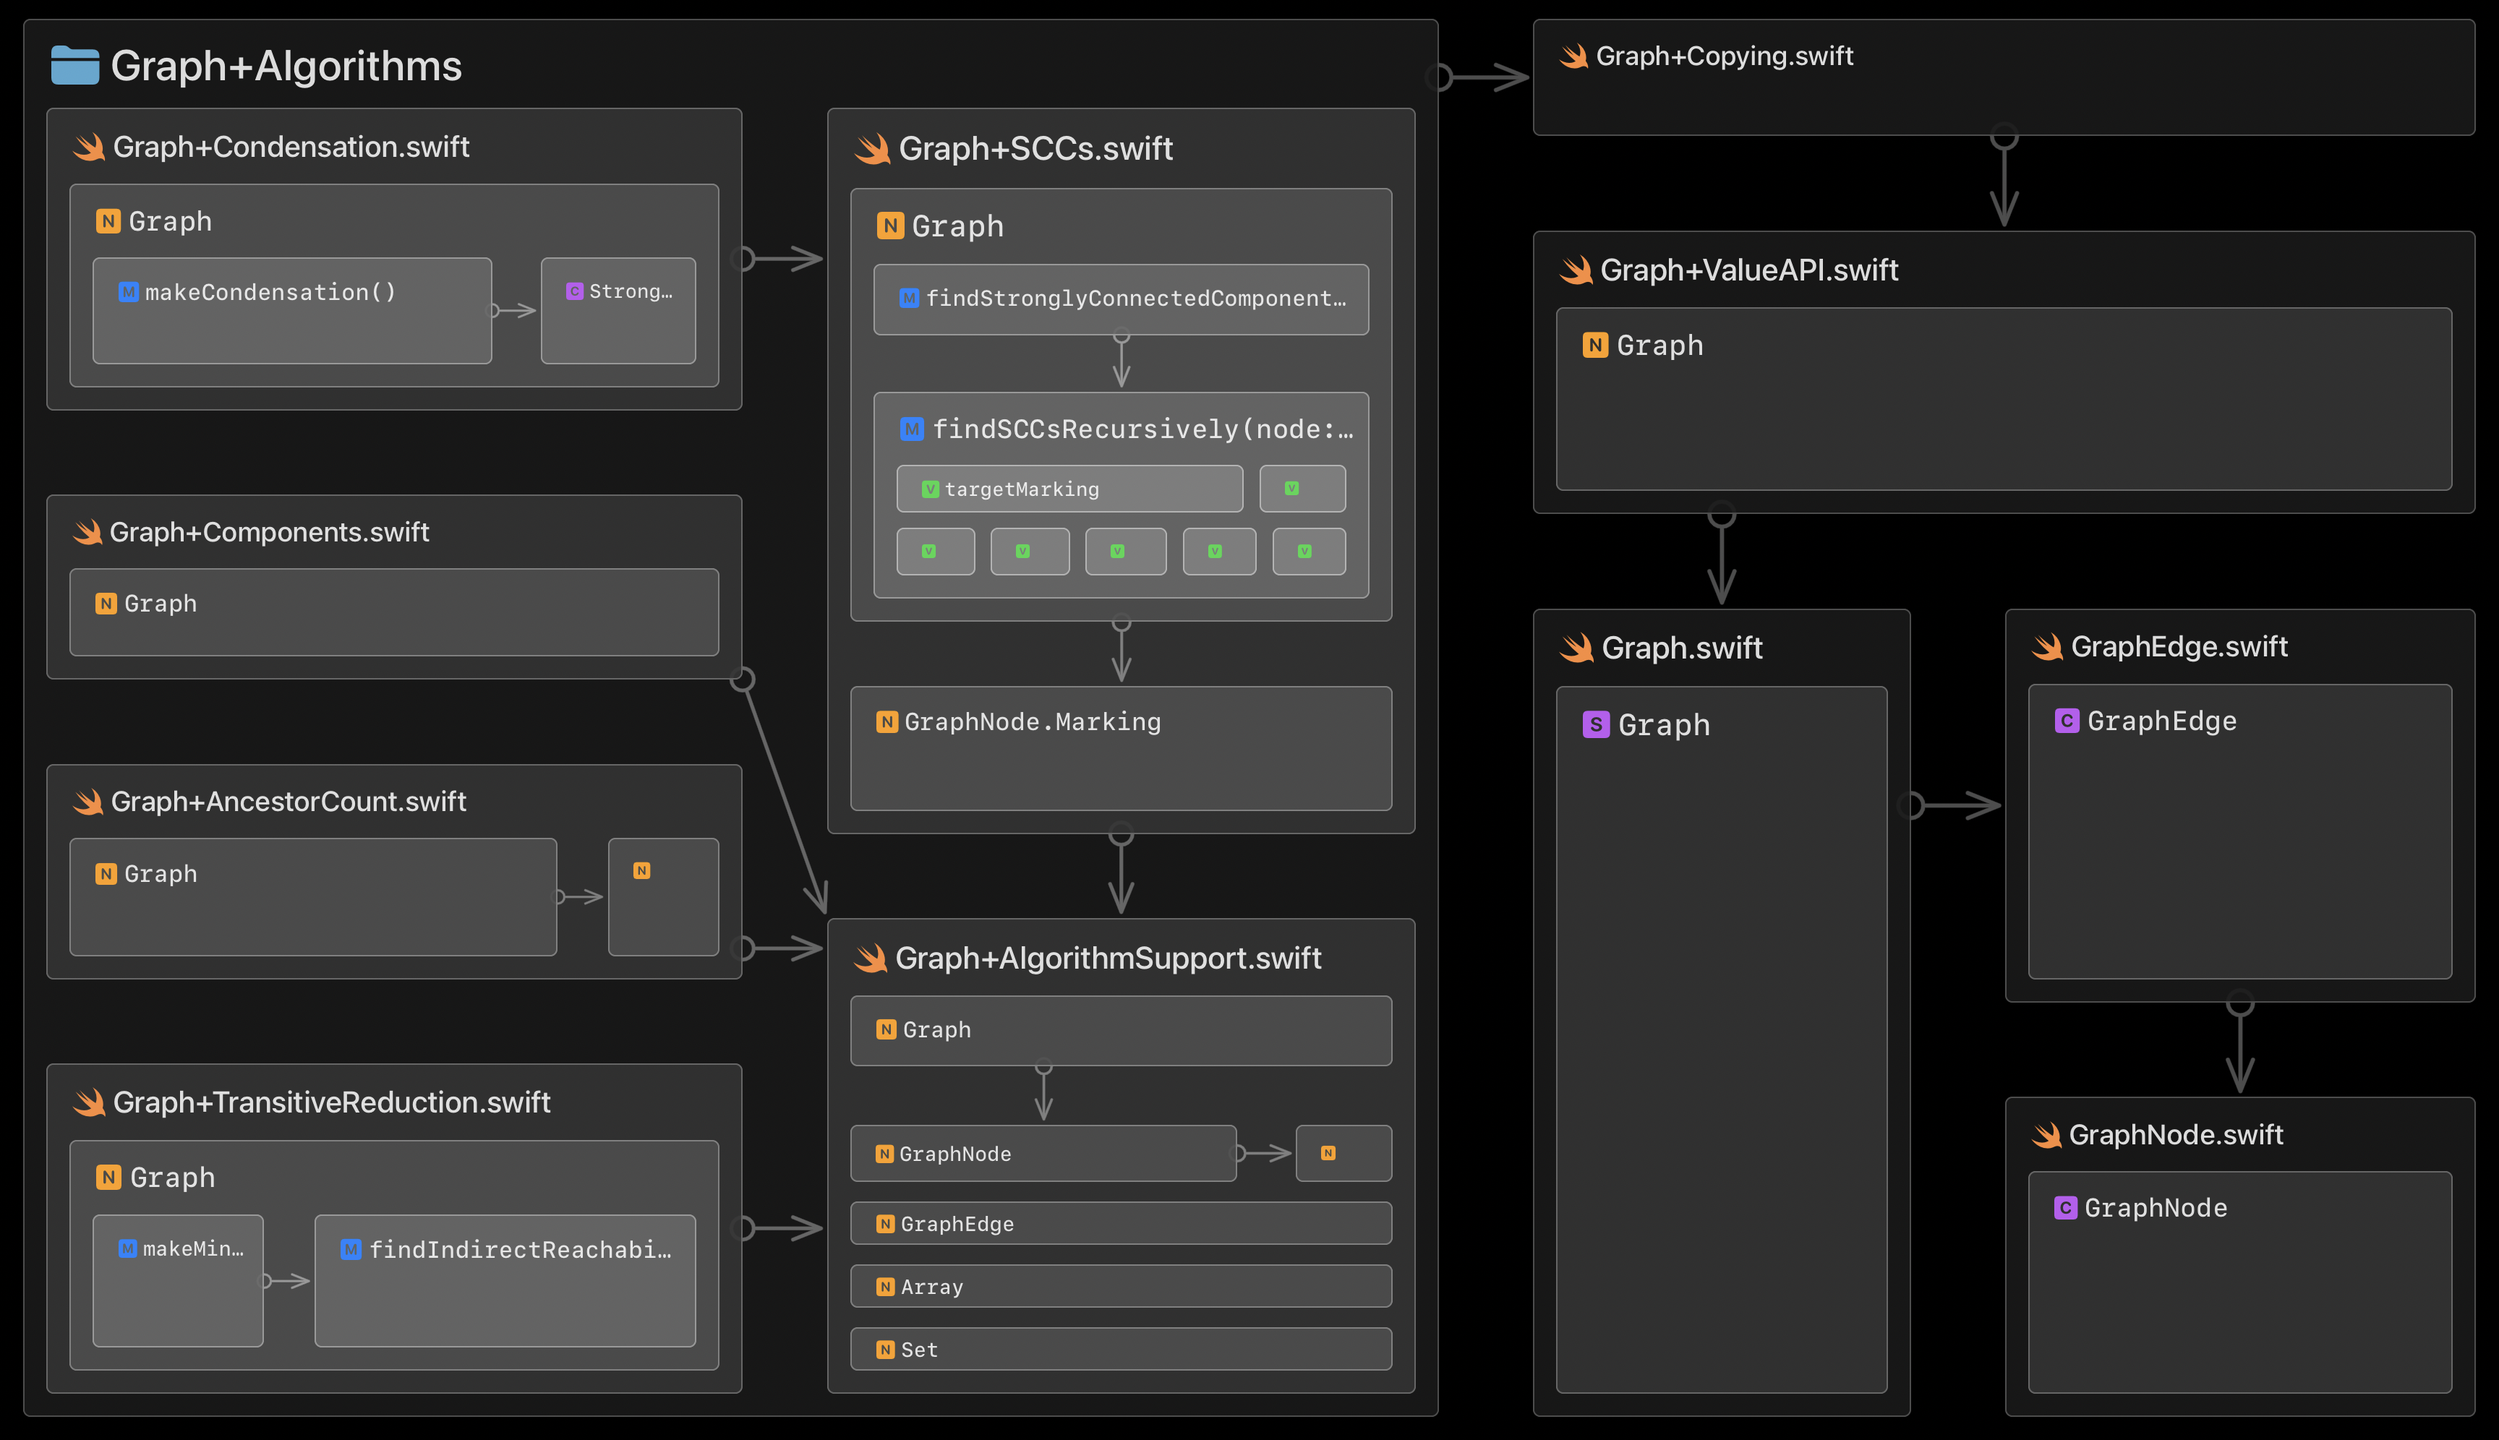
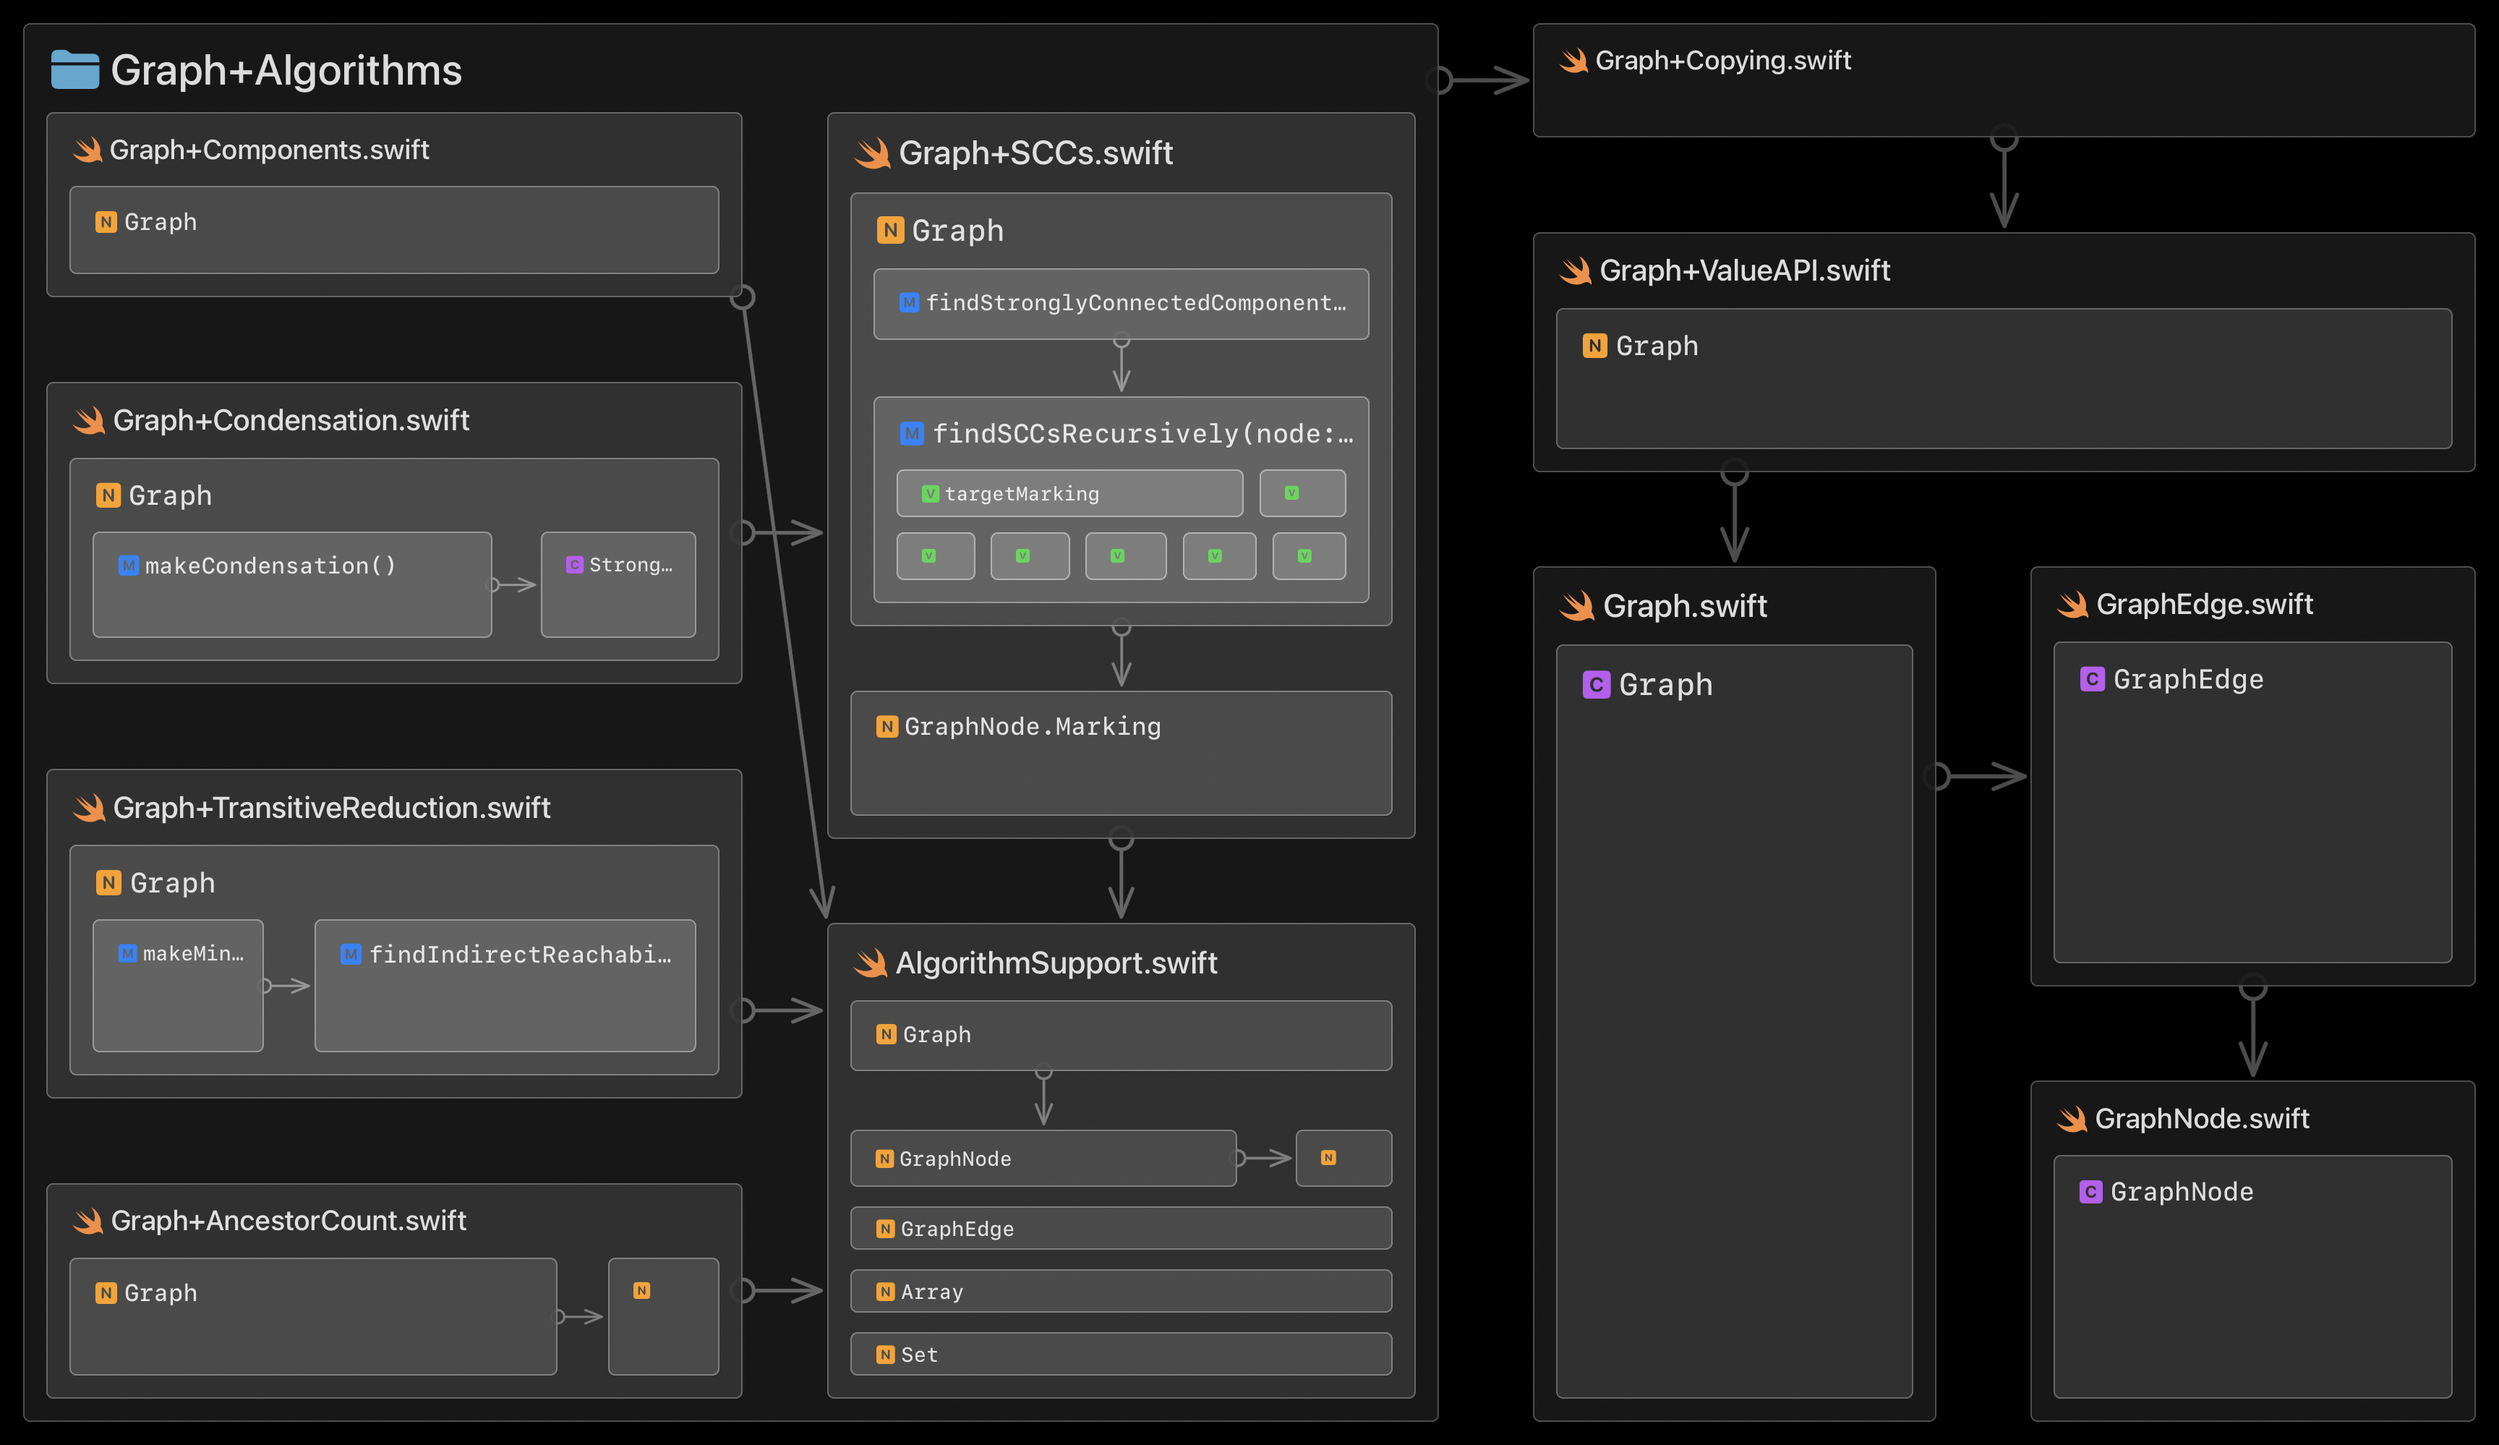
Update architecture diagram

diff --git a/README.md b/README.md
@@ -4,9 +4,9 @@ A Swift package providing a `Graph` data structure and various graph algorithms.
 
 It serves as critical infrastructure for [Codeface.io](https://www.codeface.io).
 
-## Overview
+## Architecture
 
-The codebase with its essential dependencies:
+Here is the internal composition with its essential dependencies:
 
 ![](Documentation/architecture.png)
 
